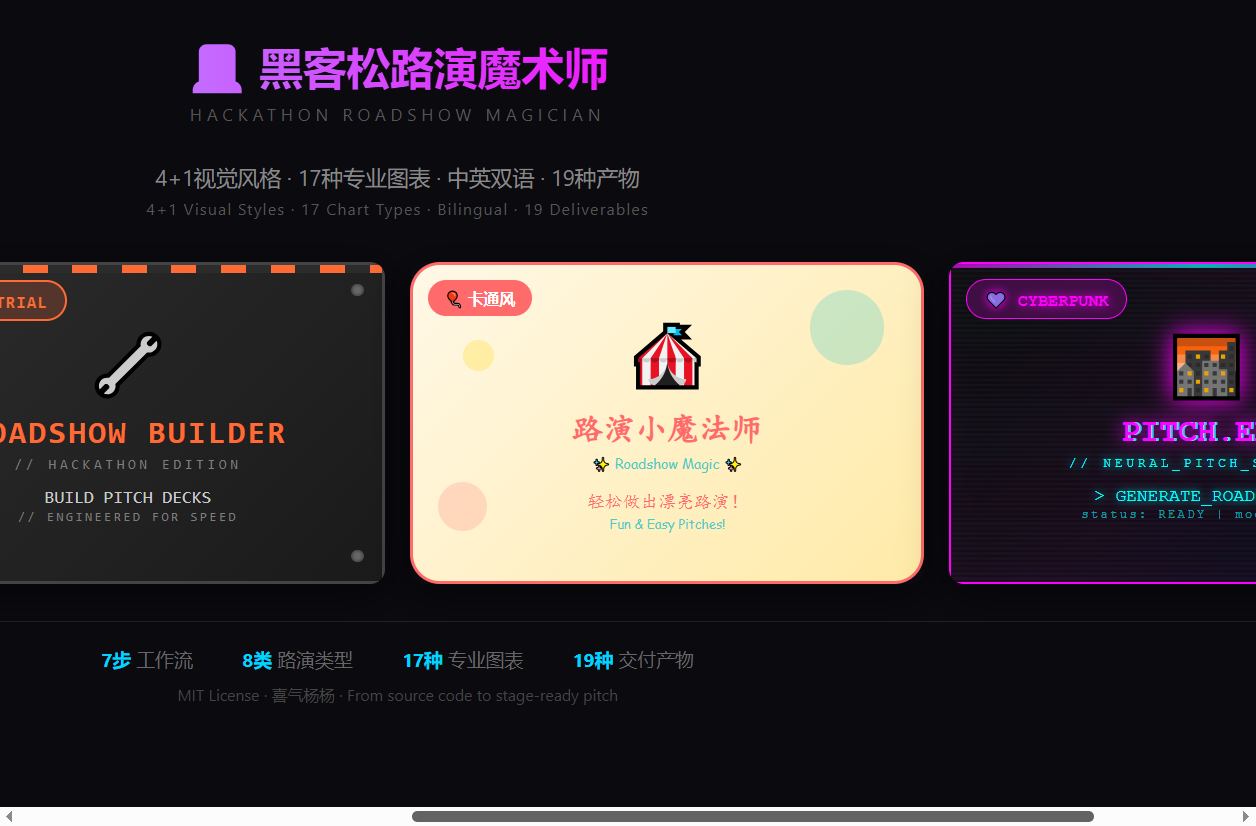
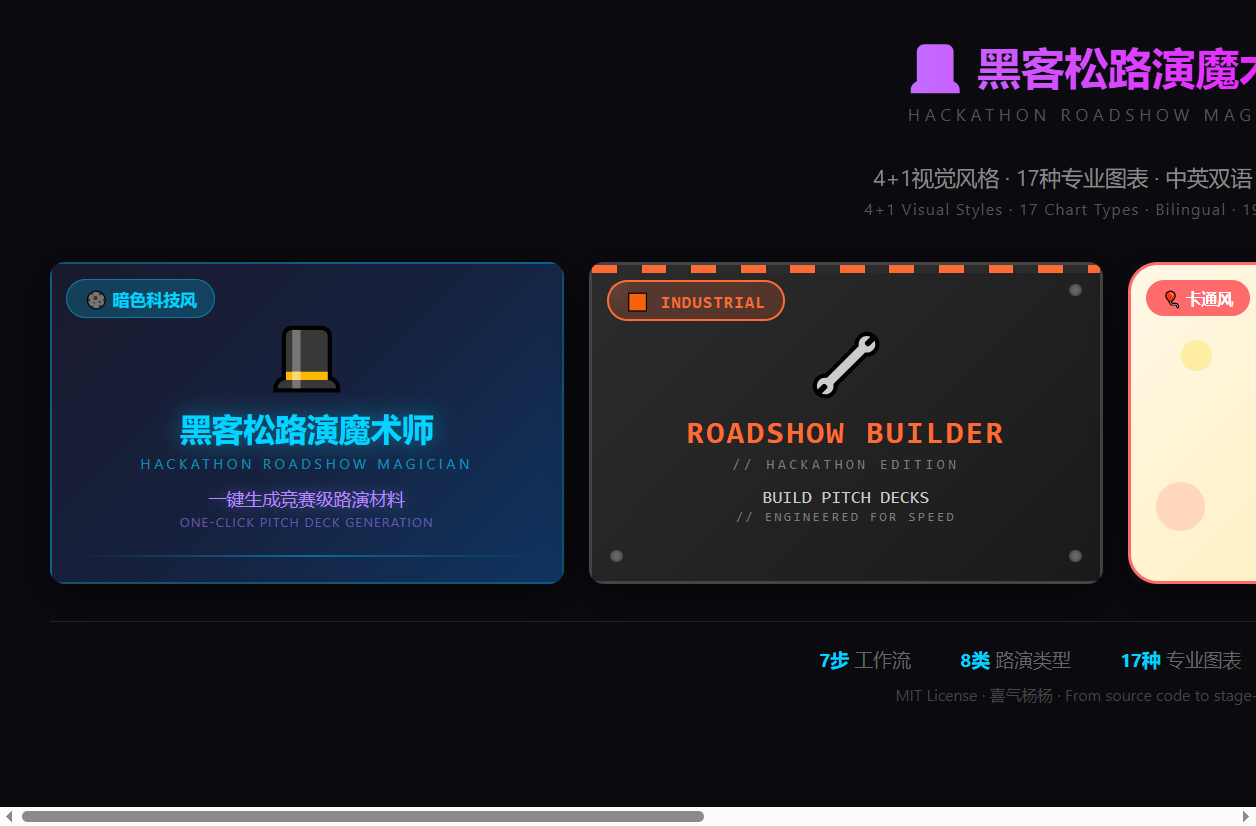
docs: 首页展示图改为2×2田字格布局，一眼看全四风格
- 将四风格对比从4列横排改为2×2田字格（2行×2列）
- 页面宽度1000px，适配GitHub README展示区域
- 暗色科技(左上)/工业(右上)/卡通(左下)/赛博朋克(右下)
- 替换style-showcase.png和social-preview.png

diff --git a/路演材料/github-showcase-4styles.html b/路演材料/github-showcase-4styles.html
@@ -9,8 +9,9 @@
     body {
       font-family: 'Segoe UI', 'Microsoft YaHei', sans-serif;
       background: #0A0A0F;
-      padding: 30px 40px;
-      min-width: 1800px;
+      padding: 25px 30px;
+      width: 1000px;
+      margin: 0 auto;
     }
     .header {
       text-align: center;
@@ -45,9 +46,9 @@
     }
     .grid-4 {
       display: grid;
-      grid-template-columns: repeat(4, 1fr);
-      gap: 20px;
-      max-width: 1800px;
+      grid-template-columns: repeat(2, 1fr);
+      gap: 18px;
+      max-width: 940px;
       margin: 0 auto;
     }
     .pitch-frame {
